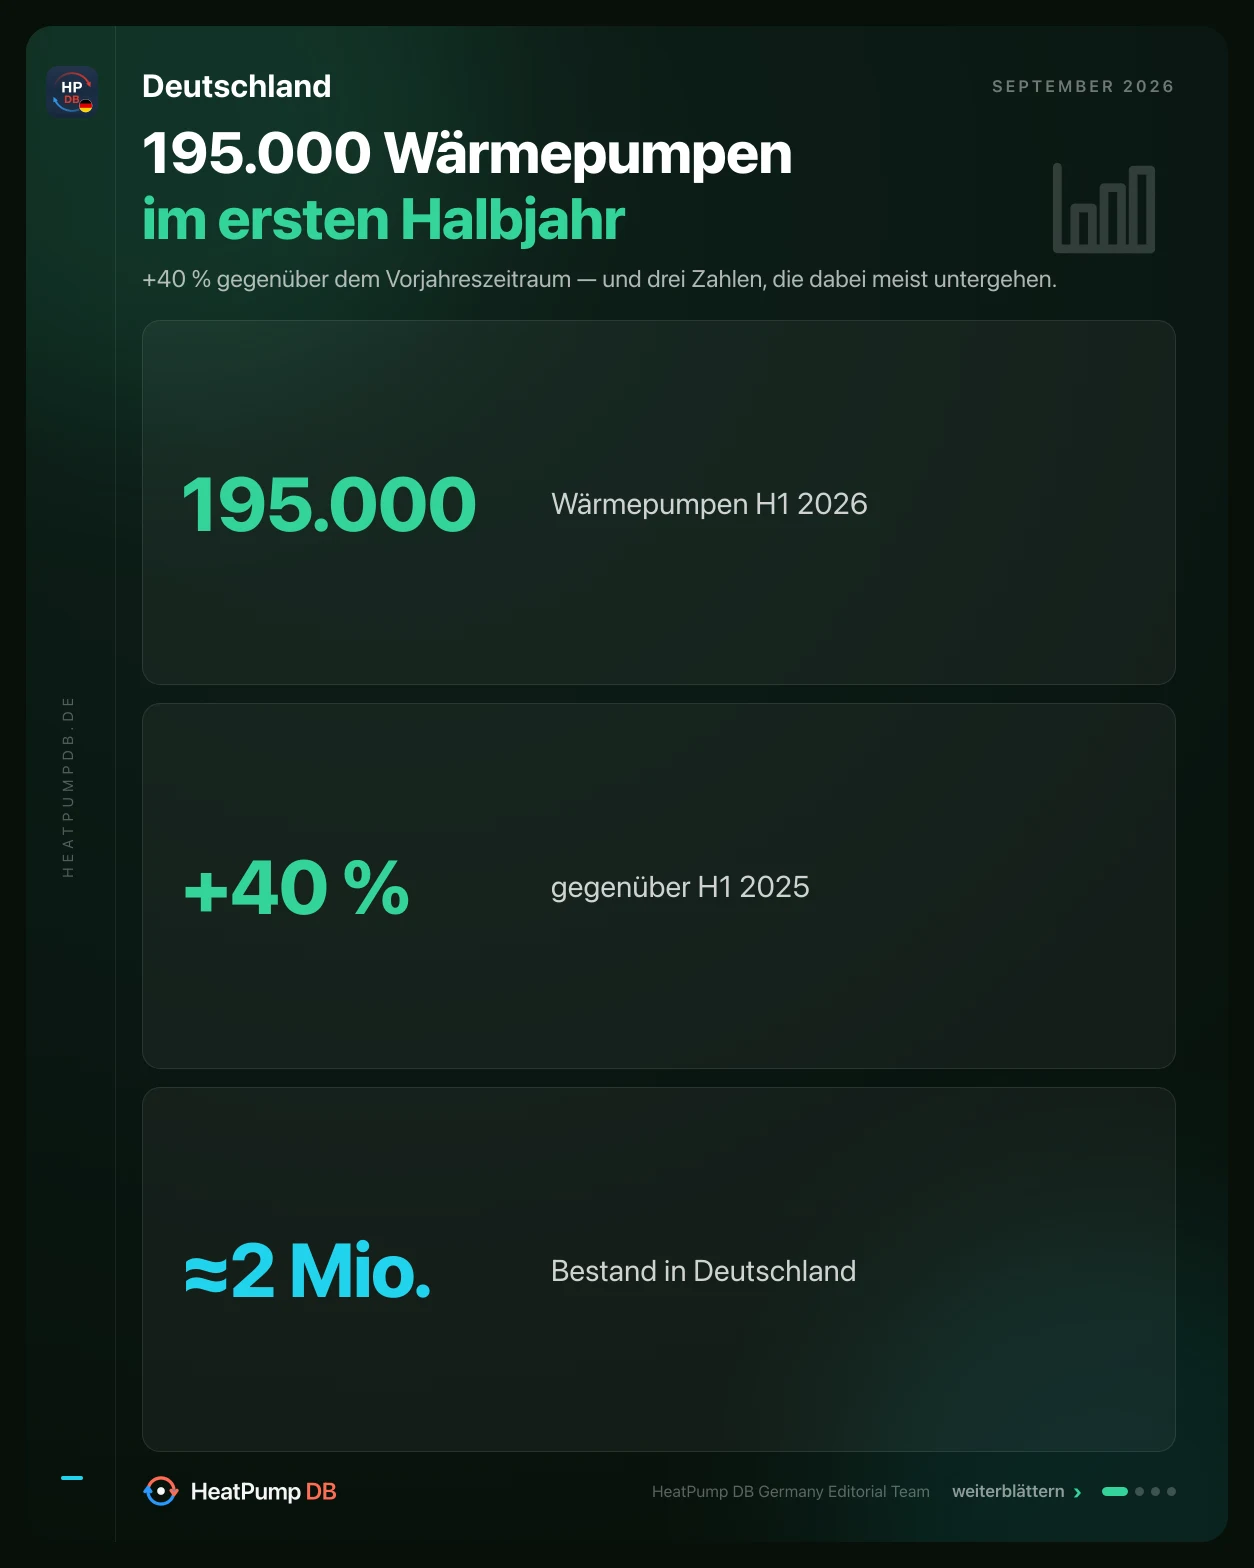
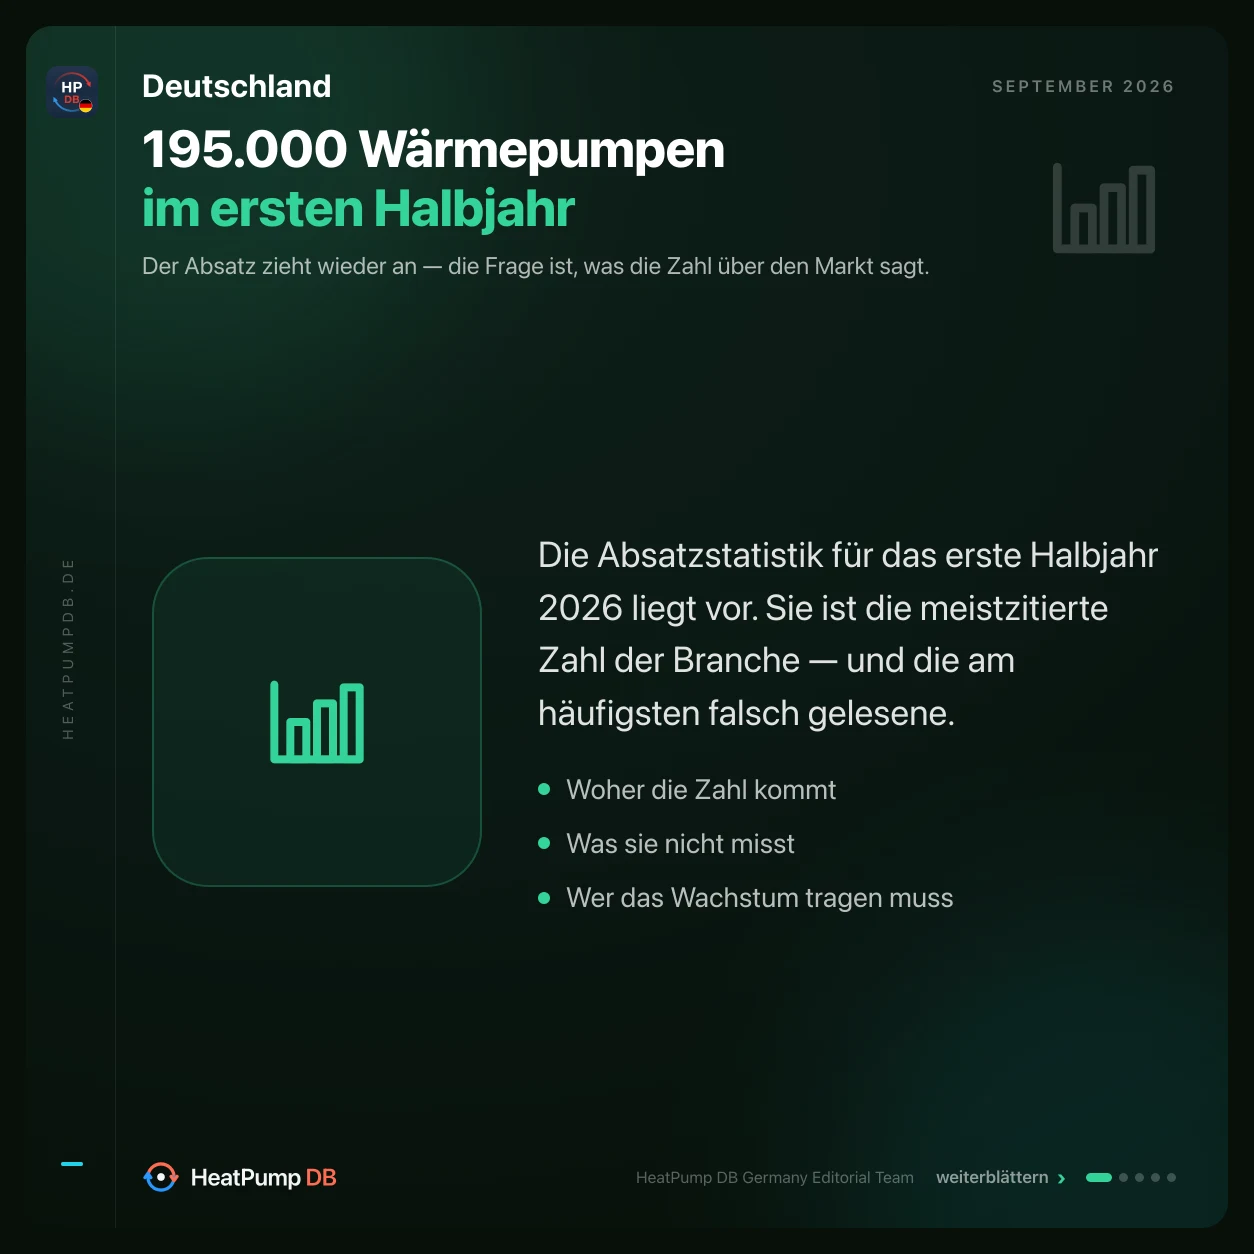
feat(trends): the deck is square, 3-6 cards, and opens on the subject
Three corrections to yesterday's format, from the owner's review.

SQUARE, NOT PORTRAIT. The reference decks are 4:5 and I followed them; our own
cards have always been 1:1 and so is the feed they live in, so a deck that
changed shape would have made the archive look like two products. 1:1 is the
default; 4:5 stays reachable through `ratio` for a deck written only for
LinkedIn, with its portrait rules scoped to that case so the square path is
untouched.

THE COVER CARRIES THE SUBJECT, NOT THE NUMBER. A cover that opens with the big
figure has already spent the story's one surprise — and a reader who has seen
the number has no reason to swipe. The new `lead` block renders what a cover
should: a mark that stands for the story, a sentence of situation, and up to
three points naming what follows. The key chart now opens card 2.

LENGTH FOLLOWS THE MATERIAL. 3 to 6 cards, 8 at the most: the renderer refuses
above 8 and says so above 6, rather than silently producing a deck nobody
finishes.

The reader on our own page now puts the cards on one track and CENTRES the
selected one, neighbours peeking at the edges — the peek is what tells a reader
there is more. It scrolls natively, so a phone gets momentum and snapping for
free and a hand-drag updates the selection exactly as the arrows do.

Every change re-verified against an existing card spec: the single-card render
is still byte-for-byte what it was before any of this started.

diff --git a/src/hpiq/pages/TrendsPage.tsx b/src/hpiq/pages/TrendsPage.tsx
@@ -73,62 +73,104 @@ const PILL: React.CSSProperties = {
 };
 
 /**
- * CardDeck — the swipeable card reader.
+ * CardDeck — the card reader: one card at a time, centred.
  *
- * A trends story used to be one square card, which forced every figure onto a
- * single surface. A deck lets each card hold ONE idea at full size and lets
- * the reader decide how far to go — and it is the same set of images LinkedIn
- * pages through as a carousel, so the two surfaces cannot drift apart.
+ * A deck is 3 to 6 cards (8 at the most), so the reader has to make where it
+ * is obvious. The cards sit on one track and the SELECTED card is centred in
+ * the frame, with its neighbours showing at the edges — that peek is what
+ * tells a reader there is more without a caption saying so. The arrows move
+ * the selection; the track scrolls itself to centre it.
  *
- * Arrows, keyboard and touch all move the same index. A one-card deck renders
- * as a plain image with no furniture at all, which is what every entry
- * published before this was.
+ * Native scrolling does the work rather than a transform: a phone then gets
+ * its own momentum and snapping for free, and dragging the track by hand
+ * updates the selection the same way the arrows do.
+ *
+ * A one-card entry renders as a plain image with no furniture at all, which
+ * is what every card published before decks existed is.
  */
 const CardDeck: React.FC<{ images: string[]; alt: string }> = ({ images, alt }) => {
   const [i, setI] = useState(0);
-  const touch = React.useRef<number | null>(null);
+  const track = React.useRef<HTMLDivElement>(null);
   const n = images.length;
-  const go = (d: number) => setI(k => Math.min(Math.max(k + d, 0), n - 1));
+
+  const centre = (k: number) => {
+    const el = track.current?.children[k] as HTMLElement | undefined;
+    el?.scrollIntoView({ behavior: 'smooth', inline: 'center', block: 'nearest' });
+  };
+  const go = (d: number) => {
+    const k = Math.min(Math.max(i + d, 0), n - 1);
+    setI(k); centre(k);
+  };
 
   // A new story resets the deck: reading card 3 of one and opening the next
   // should not land on its card 3.
   const first = images[0];
-  useEffect(() => { setI(0); }, [first]);
+  useEffect(() => { setI(0); track.current?.scrollTo({ left: 0 }); }, [first]);
 
   if (n === 1) {
     return <img src={images[0]} alt={alt} style={{ width: '100%', borderRadius: 18, display: 'block', marginBottom: 26 }} />;
   }
 
+  /** Which card is nearest the centre — the selection follows a hand-drag as
+   *  well as the arrows, so the dots never disagree with what is on screen. */
+  const onScroll = () => {
+    const t = track.current; if (!t) return;
+    const mid = t.scrollLeft + t.clientWidth / 2;
+    let best = 0, bestD = Infinity;
+    [...t.children].forEach((c, k) => {
+      const el = c as HTMLElement;
+      const d = Math.abs(el.offsetLeft + el.offsetWidth / 2 - mid);
+      if (d < bestD) { bestD = d; best = k; }
+    });
+    if (best !== i) setI(best);
+  };
+
   const ARROW: React.CSSProperties = {
-    position: 'absolute', top: '50%', transform: 'translateY(-50%)',
-    width: 44, height: 44, borderRadius: '50%', border: '1px solid #e0e0e0',
-    background: 'rgba(255,255,255,.92)', color: '#1d1d1f', fontSize: 22, lineHeight: 1,
-    display: 'grid', placeItems: 'center', cursor: 'pointer', boxShadow: '0 4px 14px rgba(0,0,0,.12)',
+    position: 'absolute', top: '50%', transform: 'translateY(-50%)', zIndex: 2,
+    width: 46, height: 46, borderRadius: '50%', border: '1px solid #e0e0e0',
+    background: 'rgba(255,255,255,.94)', color: '#1d1d1f', fontSize: 22, lineHeight: 1,
+    display: 'grid', placeItems: 'center', cursor: 'pointer', boxShadow: '0 4px 16px rgba(0,0,0,.14)',
   };
 
   return (
     <div style={{ marginBottom: 26 }}>
-      <div
-        style={{ position: 'relative', borderRadius: 18, overflow: 'hidden', outline: 'none' }}
-        onTouchStart={e => { touch.current = e.touches[0].clientX; }}
-        onTouchEnd={e => {
-          if (touch.current == null) return;
-          const dx = e.changedTouches[0].clientX - touch.current;
-          if (Math.abs(dx) > 40) go(dx < 0 ? 1 : -1);
-          touch.current = null;
-        }}
-        onKeyDown={e => { if (e.key === 'ArrowRight') go(1); if (e.key === 'ArrowLeft') go(-1); }}
-        tabIndex={0}
-      >
-        <img src={images[i]} alt={`${alt} — ${i + 1}/${n}`} style={{ width: '100%', display: 'block' }} />
-        {i > 0 && <div className="hp-press" onClick={() => go(-1)} style={{ ...ARROW, left: 12 }}>‹</div>}
-        {i < n - 1 && <div className="hp-press" onClick={() => go(1)} style={{ ...ARROW, right: 12 }}>›</div>}
+      <div style={{ position: 'relative' }}>
+        <div
+          ref={track}
+          onScroll={onScroll}
+          onKeyDown={e => { if (e.key === 'ArrowRight') go(1); if (e.key === 'ArrowLeft') go(-1); }}
+          tabIndex={0}
+          className="hp-deck-track"
+          style={{
+            display: 'flex', gap: 14, overflowX: 'auto', scrollSnapType: 'x mandatory',
+            // The side padding is what lets the FIRST and LAST card reach the
+            // centre; without it the deck would stop one half-card short.
+            padding: '4px 13% 10px', outline: 'none', scrollbarWidth: 'none',
+          }}
+        >
+          {images.map((src, k) => (
+            <img
+              key={src}
+              src={src}
+              alt={`${alt} — ${k + 1}/${n}`}
+              onClick={() => { setI(k); centre(k); }}
+              style={{
+                flex: 'none', width: '74%', maxWidth: 560, borderRadius: 18, display: 'block',
+                scrollSnapAlign: 'center', cursor: k === i ? 'default' : 'pointer',
+                opacity: k === i ? 1 : 0.5, transition: 'opacity .25s, transform .25s',
+                transform: k === i ? 'none' : 'scale(.965)',
+              }}
+            />
+          ))}
+        </div>
+        {i > 0 && <div className="hp-press" onClick={() => go(-1)} style={{ ...ARROW, left: 6 }}>‹</div>}
+        {i < n - 1 && <div className="hp-press" onClick={() => go(1)} style={{ ...ARROW, right: 6 }}>›</div>}
       </div>
-      <div style={{ display: 'flex', justifyContent: 'center', gap: 7, marginTop: 12 }}>
+      <div style={{ display: 'flex', justifyContent: 'center', gap: 7, marginTop: 10 }}>
         {images.map((_, k) => (
           <span
             key={k}
-            onClick={() => setI(k)}
+            onClick={() => { setI(k); centre(k); }}
             className="hp-press"
             style={{
               width: k === i ? 22 : 8, height: 8, borderRadius: 4, cursor: 'pointer',

diff --git a/src/index.css b/src/index.css
@@ -202,3 +202,7 @@
 @media (prefers-reduced-motion: reduce) {
   .hp-tour-spot, .hp-tour-tip, .hp-tour-check, .hp-tour-nudge { animation: none; }
 }
+
+/* The trends deck scrolls horizontally; the bar under it would sit between the
+   cards and the dots and read as a second control. */
+.hp-deck-track::-webkit-scrollbar { display: none; }

diff --git a/data_sources/market_trends/DECK_FORMAT.md b/data_sources/market_trends/DECK_FORMAT.md
@@ -19,10 +19,10 @@ From the screenshots, the pattern was consistent and worth copying:
 
 | Observed | What we took |
 |---|---|
-| Portrait cards, roughly 4:5, two visible side by side in the desktop feed | **4:5 (1254×1568 → 2508×3136)** is the deck default |
+| Portrait cards, roughly 4:5, two visible side by side in the desktop feed | **not taken** (owner 2026-09-12): our cards are square and so is the feed they live in, so a deck that changed shape would make the archive look like two products. 4:5 stays available via `ratio` for a LinkedIn-only deck. |
 | Circular ‹ › arrows on the card edges | arrows on our own reader too, plus swipe and arrow keys |
 | A one-line caption UNDER each card | `caption` per card, written at render time into `<slug>-captions.txt` |
-| Card 1: brand strip, big headline over a ground | our cover card: market label, headline, sub, key figures |
+| Card 1: brand strip, big headline over a ground | our cover card carries the SUBJECT, not the data: headline, sub, a line of situation and a mark that stands for the story (the `lead` block) |
 | Card 2: dark ground, headline, three icon+bold+muted rows | the new **`chips`** block |
 | Card 3: a grid of small tiles with status badges | our existing `checks` / `compare` / `table` blocks |
 | Card 4: one huge number and an offer box | the new **`cta`** block, with a QR because a carousel is not clickable |
@@ -32,23 +32,32 @@ From the screenshots, the pattern was consistent and worth copying:
 
 ## The format
 
-**Canvas** `4:5` = 1254×1568, rendered at 2× (2508×3136).
-`1:1` = 1254×1254 stays available for the square feed and is what every card
-published before this is.
+**Canvas** `1:1` = 1254×1254, rendered at 2× (2508×2508) — the ratio every
+trends card has always had, so a deck sits in the existing feed without
+announcing itself as a different kind of object. `4:5` (1254×1568) stays
+available through `ratio` for a deck written only for LinkedIn.
 
-**Length** 3–5 cards. Below three there is no reason to swipe; above five the
-drop-off makes the last card pointless.
+**Length** 3–6 cards, **8 maximum** — the renderer refuses above 8 and says so
+above 6. Below three there is nothing to swipe through; past six the last card
+is read by almost nobody. The number follows the material, not a template: a
+two-figure story is three cards, a reform with phases is six.
 
 **Card roles** — one idea per card, in this order:
 
-1. **cover** — the headline and the figure the story is about. Never more than
-   three figures; they are laid out as three ROWS in portrait (a square's three
-   columns break every number across two lines at 4:5).
-2. **caveat / evidence** — what the number is not, or what stands behind it.
+1. **cover — the SUBJECT, not the data.** Title, sub, one sentence of
+   situation, and a mark that stands for the story, plus up to three short
+   points naming what follows. The `lead` block renders exactly this. A cover
+   that opens with the big number has already spent the story's one surprise —
+   and a reader who has seen the number has no reason to swipe.
+2. **the key chart or illustration.** This is where the figures land:
+   `stats`, `bars`, `series`, `compare`.
+3. **caveat / evidence** — what the number is not, or what stands behind it.
    `chips` is the workhorse here.
-3. **context** — the second dimension: who carries it, what it costs, what
-   changes. `stats`, `compare`, `timeline`, `table`.
-4. **cta** — one number the reader leaves with, the address as text, and a QR.
+4. **context** — the second dimension: who carries it, what it costs, what
+   changes. `stats`, `timeline`, `table`, `checks`.
+5. **cta** — one number the reader leaves with, the address as text, and a QR.
+
+Cards 3 and 4 repeat as the material needs; the cover and the cta do not.
 
 **Frame** — unchanged brand furniture on every card: market-tinted ground, side
 rail with the domain, flag badge, month, footer lockup. Added for decks: the
@@ -103,8 +112,13 @@ with a clipped third card is worse than no deck.
 
 **Site** — add `images: ["<slug>-1.webp", …]` next to the existing `image` in
 `<CC>.json`. `image` stays: it is the feed thumbnail and the share preview.
-The in-app reader (`TrendsPage`) pages through `images` with arrows, keyboard
-and swipe; an entry without `images` renders exactly as before.
+
+The in-app reader puts the cards on one track and **centres the selected
+card**, with its neighbours showing at the edges — that peek is what tells a
+reader there is more, without a caption saying so. Arrows move the selection,
+the track scrolls itself to centre it, and dragging the track by hand updates
+the selection the same way. An entry without `images` renders exactly as it did
+before decks existed.
 
 **LinkedIn** — upload `<slug>-carousel.pdf` as a *document* post (composer →
 `+` / more → Add a document), or the PNGs as a multi-image post if the document
